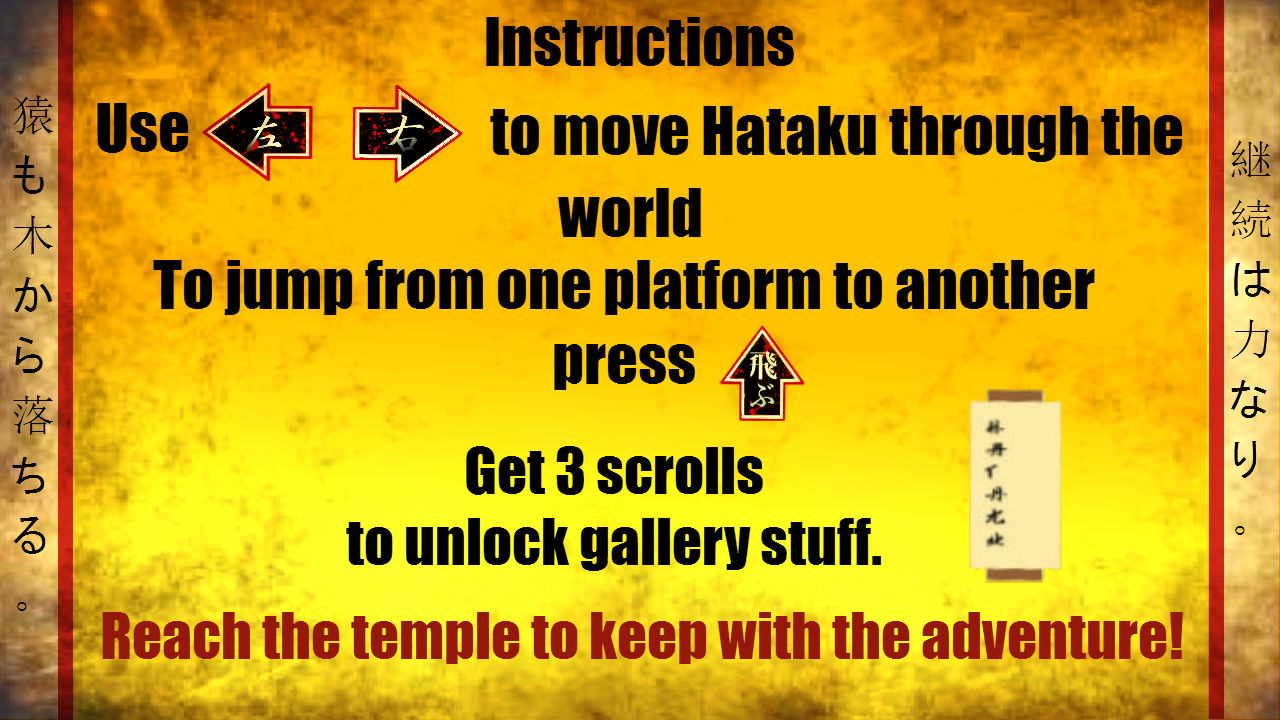
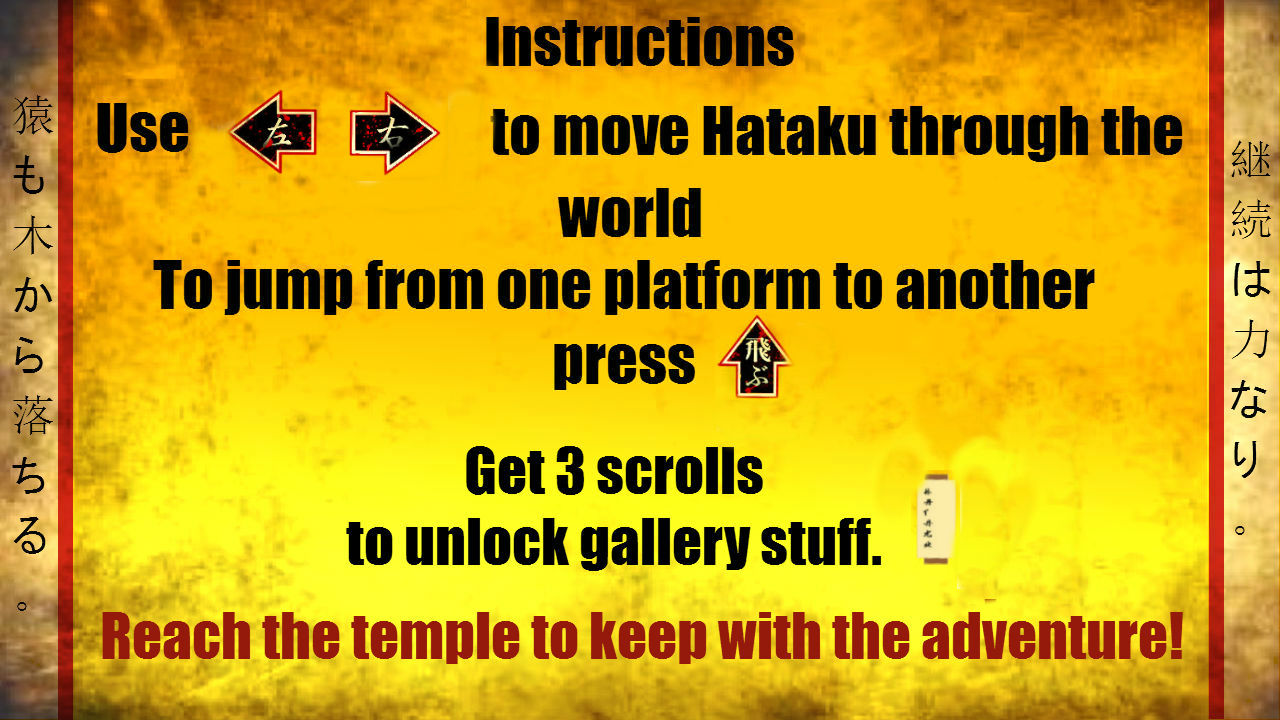
Instrucciones mejoradas, boton se cambio de posición

Changed region(s): [[0.125, 0.0611, 0.375, 0.3056], [0.6875, 0.4889, 0.8438, 0.8556], [0.5625, 0.4278, 0.625, 0.5806]]

diff --git a/core/src/mx/itesm/ninjanofukushuu/PantallaInstrucciones.java b/core/src/mx/itesm/ninjanofukushuu/PantallaInstrucciones.java
@@ -72,8 +72,8 @@ public class PantallaInstrucciones implements Screen {
         fondo = new Fondo(texturaFondo);
 
         btnRegresar = new Boton(texturaRegresar);
-        btnRegresar.setPosicion(Principal.ANCHO_MUNDO * 7 / 8 +60 , Principal.ALTO_MUNDO * 1 / 5 -130);
-        btnRegresar.setTamanio(anchoBoton-80, altoBoton -80);
+        btnRegresar.setPosicion(Principal.ANCHO_MUNDO * 7 / 8 +72 , Principal.ALTO_MUNDO * 1 / 5 -130);
+        btnRegresar.setTamanio(anchoBoton-90, altoBoton -90);
         //Batch
         fondo.getSprite().setCenter(Principal.ANCHO_MUNDO / 2, Principal.ALTO_MUNDO / 2);
         fondo.getSprite().setOrigin(1500 / 2, 1500 / 2);
